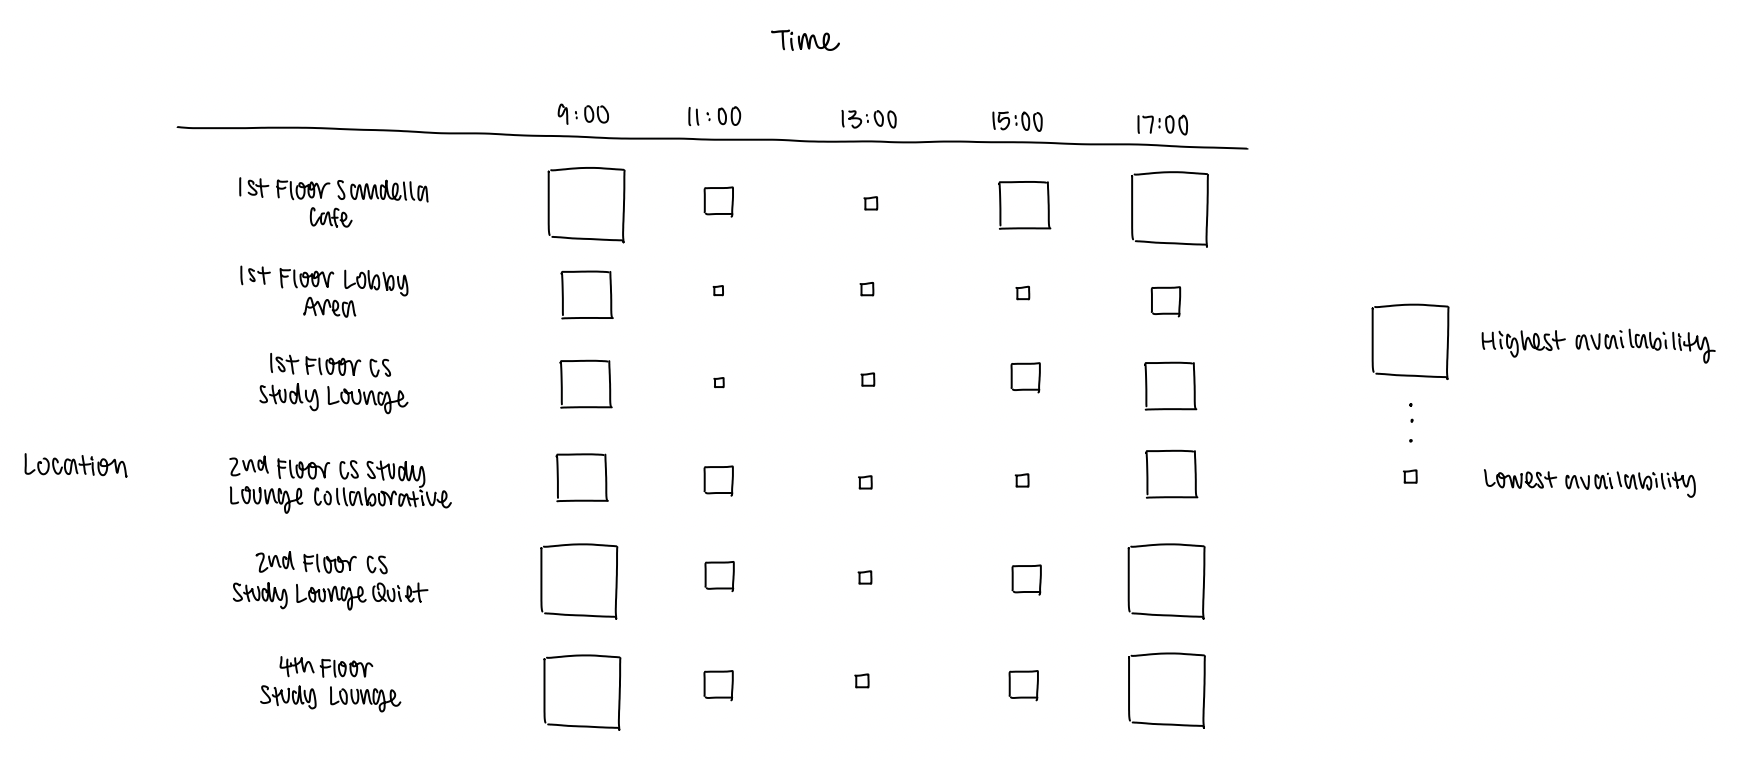
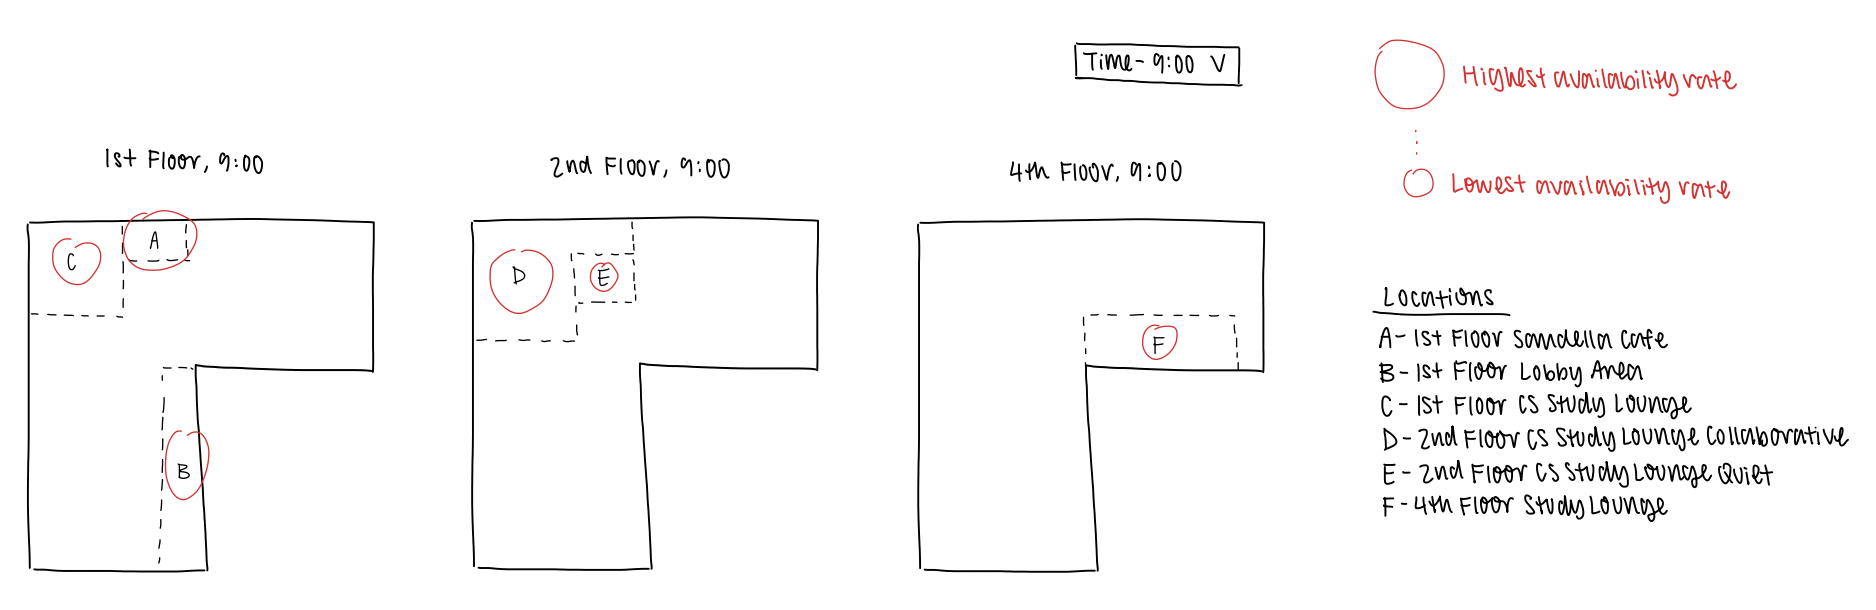
revised sketch 1 to make it better

diff --git a/Task_Details.md b/Task_Details.md
@@ -283,11 +283,7 @@ point, but this step will help us consider what constitutes appropriate visualiz
 
 ## Sketch 1 - Elizabeth
 ![Visualization for Domain Question 2](Visualizations/DQ_2_Vis_Elizabeth.jpeg)
-This visualization answers this domain question: which locations in the CDRLC are the most reliable for finding open seating? This sketch is based on the matrix visualization structure where users can compare the average availability of various study 
-space locations by the size of the squares at different times of day. The marks are represented by squares, and the channel
-is represented by varying sizes of those squares. The bigger the size of the square, the higher the average seat availability,
-and vice versa for smaller squares. Some attributes that are contained in this sketch are location, time, and the aggregation
-of average open seats. This visualization is good for making comparisons across many locations and times within one visualization, and they are organized matrix-style. However, the sizes of the squares are not the most visually effective way to compare seat availabilities because it may be challenging to distinguish them from one another.
+This visualization answers this domain question: which locations in the CDRLC are the most reliable for finding open seating? This sketch is based on the fundamental matrix visualization structure where users can compare the seat availability rates of study space locations by comparing the sizes of the circles, in respect to the size of each study area, at different times of a day. This sketch adds more depth to a simple matrix by incorporating spatial visualization aspects with the floor plan of each relevent floor of the CDRLC. The marks of this visualization are represented by circles, and the channel is represented by varying sizes of those circles. The bigger the size of the circle, the higher the seat availability rate, and vice versa for smaller circles. Some attributes that are contained in this sketch are location, time, and open seats as rates in percentages. This visualization is good for making open seat comparisions on maps, and it has a feature to toggle different views of the sketch by time for a cleaner and organized look. What could be better about this sketch is how it conveys high availability rates vs. low availability rates. Comparing circle sizes in retrospect to the amount of space they take up in an area is oftentimes subjective and is not the most effective method of making comparisons. It's hard to make those visual distinguishments, so it may be better to consider using color instead of circle sizes as the channel for this visualization. Additionally, this sketch limits the comparision of different times of day all at once due to the toggle feature. It makes it hard for the user to judge how reliable different locations are, and if the latency of the sketch is poor, this could hinder the user's cognitive thinking and perception of the visualizations.
 
 ## Sketch 2 - Elizabeth
 ![Visualization for Domain Question 3](Visualizations/DQ_3_Vis_Elizabeth.jpeg)
